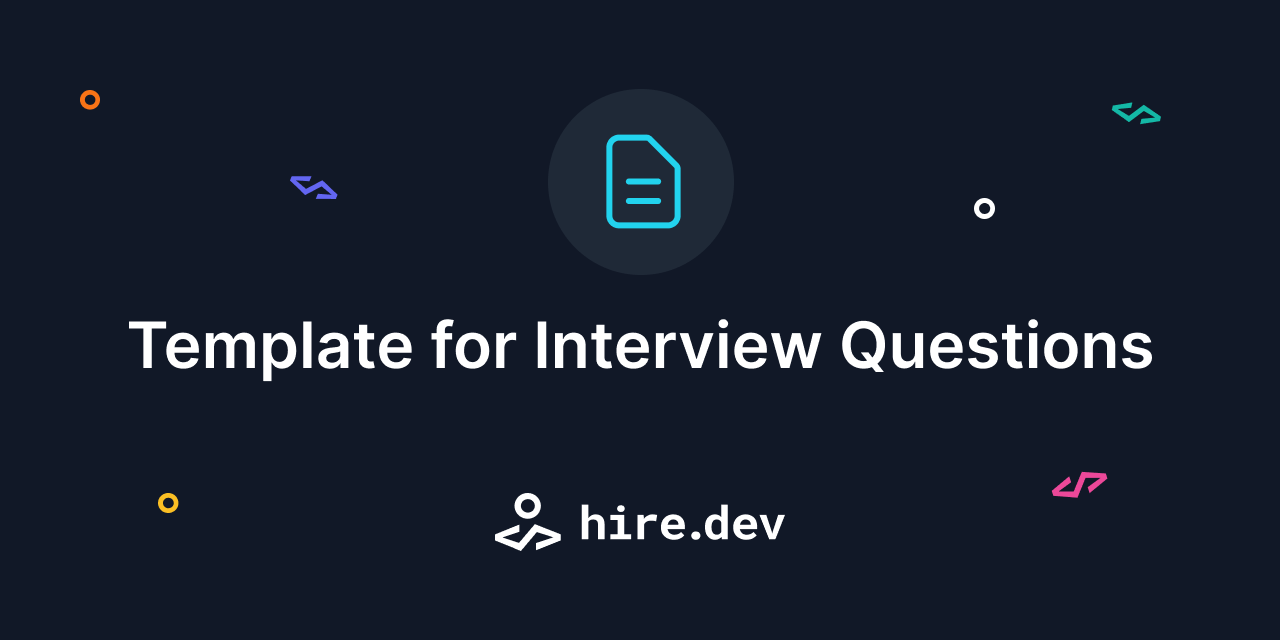
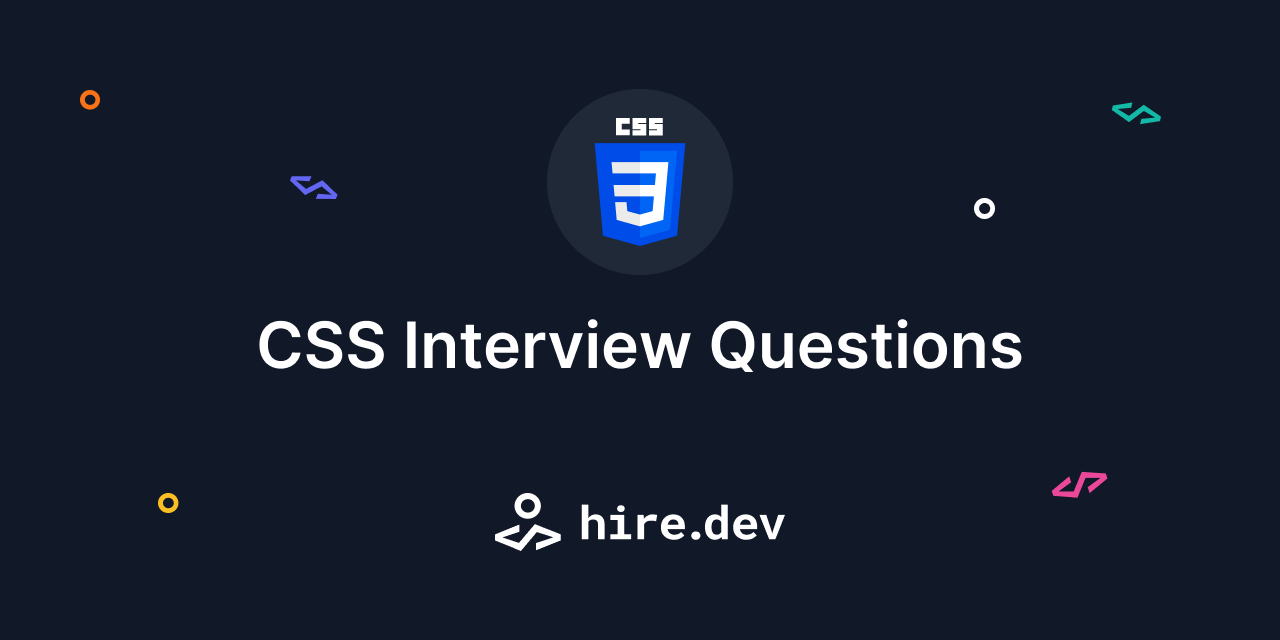
generate readme & img

Changed region(s): [[0.0938, 0.5, 0.9062, 0.5938], [0.4375, 0.1875, 0.5625, 0.375]]

diff --git a/README.md b/README.md
@@ -1,75 +1,23 @@
-![Image header](https://github.com/hiredev-app/interview-questions-template/blob/main/image-header.png?raw=true)
+![Image header](https://github.com/hiredev-app/css-interview-questions/blob/main/image-header.png?raw=true)
 
+## Questions
 
-# [hire.dev] - Interview Questions Template
+<details><summary>The four aspects that make up the box model are:</summary><p></p><p>&nbsp;&nbsp;&nbsp;&nbsp;&nbsp;☒ Padding</p><p>&nbsp;&nbsp;&nbsp;&nbsp;&nbsp;☐ Typography</p><p>&nbsp;&nbsp;&nbsp;&nbsp;&nbsp;☒ Margin</p><p>&nbsp;&nbsp;&nbsp;&nbsp;&nbsp;☒ Border</p><p>&nbsp;&nbsp;&nbsp;&nbsp;&nbsp;☒ Content</p><p>&nbsp;&nbsp;&nbsp;&nbsp;&nbsp;☐ Color</p><p></p></details>
 
-This is a template repository you can use to create your own questions
-set of questions compatible with hire.dev platform.
+<details><summary>Select the correct pairs of text formatting and corresponding CSS properties:</summary><p></p><p>&nbsp;&nbsp;&nbsp;&nbsp;&nbsp;☐ Italic - font-weight: bold;</p><p>&nbsp;&nbsp;&nbsp;&nbsp;&nbsp;☒ Underline - text-decoration: underline;</p><p>&nbsp;&nbsp;&nbsp;&nbsp;&nbsp;☒ Bold - font-weight: bold;</p><p>&nbsp;&nbsp;&nbsp;&nbsp;&nbsp;☒ Italic - font-style: italic;</p><p></p></details>
 
-### What to do?
+<details><summary>Select legal CSS color values:</summary><p></p><p>&nbsp;&nbsp;&nbsp;&nbsp;&nbsp;☒ #00ff00</p><p>&nbsp;&nbsp;&nbsp;&nbsp;&nbsp;☒ hsla(120, 100%, 50%, 0.3)</p><p>&nbsp;&nbsp;&nbsp;&nbsp;&nbsp;☐ 00ff00</p><p>&nbsp;&nbsp;&nbsp;&nbsp;&nbsp;☒ rgba(0, 255, 0, 0.3)</p><p></p></details>
 
-Simply clone this template, modify questions.yaml and make sure it's valid against the schema.
+<details><summary>Select legal CSS color values:</summary><p></p><p>&nbsp;&nbsp;&nbsp;&nbsp;&nbsp;☒ blue</p><p>&nbsp;&nbsp;&nbsp;&nbsp;&nbsp;☒ hsl(120, 100%, 50%)</p><p>&nbsp;&nbsp;&nbsp;&nbsp;&nbsp;☐ cmyk(1, 0, 1, 0)</p><p>&nbsp;&nbsp;&nbsp;&nbsp;&nbsp;☒ rgb(0, 255, 0)</p><p></p></details>
 
-- Github action will make sure the README.md is regenerated, so that your questions are open source in a nice format
-- In case you use hire.dev, please specify this repository in Questions section of your organisation and import the repo.
+<details><summary>Consider following CSS and HTML. How big will the vertical space between the paragraphs be?</summary><p></p><p>&nbsp;&nbsp;&nbsp;&nbsp;&nbsp;◯ 56px</p><p>&nbsp;&nbsp;&nbsp;&nbsp;&nbsp;◯ 24px</p><p>&nbsp;&nbsp;&nbsp;&nbsp;&nbsp;◉ 32px</p><p>&nbsp;&nbsp;&nbsp;&nbsp;&nbsp;◯ 44px</p><p></p></details>
 
-## Motivation
+<details><summary>Consider following CSS and HTML. How big will the vertical space between the paragraphs be?</summary><p></p><p>&nbsp;&nbsp;&nbsp;&nbsp;&nbsp;◯ 56px</p><p>&nbsp;&nbsp;&nbsp;&nbsp;&nbsp;◯ 24px</p><p>&nbsp;&nbsp;&nbsp;&nbsp;&nbsp;◉ 32px</p><p>&nbsp;&nbsp;&nbsp;&nbsp;&nbsp;◯ 44px</p><p></p></details>
 
-At hire.dev, we want to make it possible for a teams to manage their set of interview questions on 
-GitHub in form of a simple YAML file.
+<details><summary>Consider following CSS and HTML. Will the child and parent margins collapse?</summary><p></p><p>&nbsp;&nbsp;&nbsp;&nbsp;&nbsp;◯ No</p><p>&nbsp;&nbsp;&nbsp;&nbsp;&nbsp;◉ Yes</p><p></p></details>
 
-1. We want team members to actively collaborate on a set of questions that are being asked during the interview process.
-2. We believe the questions are more relevant when being built continuously and naturally while building stuff instead of when they are prepared just for the sake of interview process. 
-3. Possibility to store them in YAML on GitHub gives people an opportunity to collaborate like on any other project. Ask questions, do pull-request reviews, create issues.
-4. The setup of this repo allows for this questions to be either just publicly available on GitHub, or be used as part of hire.dev platform.
+<details><summary>Consider following CSS and HTML. How big will the horizontal space between the paragraphs be?</summary><p></p><p>&nbsp;&nbsp;&nbsp;&nbsp;&nbsp;◉ 56px</p><p>&nbsp;&nbsp;&nbsp;&nbsp;&nbsp;◯ 24px</p><p>&nbsp;&nbsp;&nbsp;&nbsp;&nbsp;◯ 32px</p><p>&nbsp;&nbsp;&nbsp;&nbsp;&nbsp;◯ 44px</p><p></p></details>
 
-## Schema
+<details><summary>Select correct scenarios to form a new stacking context:</summary><p></p><p>&nbsp;&nbsp;&nbsp;&nbsp;&nbsp;☐ <body> element of the document.</p><p>&nbsp;&nbsp;&nbsp;&nbsp;&nbsp;☐ Element with a transparent background-color, for example background-color:rgba(255, 0, 0, 0).</p><p>&nbsp;&nbsp;&nbsp;&nbsp;&nbsp;☒ Element with a opacity value less than 1.</p><p>&nbsp;&nbsp;&nbsp;&nbsp;&nbsp;☒ Element with a isolation value isolate.</p><p>&nbsp;&nbsp;&nbsp;&nbsp;&nbsp;☒ Element with a position value absolute or relative and z-index value other than auto.</p><p></p></details>
 
-```yaml
-questions:
-- title: {question_name}
-  type: {full_text,single_choice,multi_choice}
-  options: # available just for single_choice,multi_choice questions
-  - value: {answer_no_1_text}
-    correct: true # only 1 correct answer possible for single_choice questions
-  - value: {answer_no_2_text}
-  hint: # optional hint 
-  body: |
-    Body of the question in Markdown to briefly describe the question more in detail
-    ~~~python
-    # You can even provide code snippets
-    ~~~
-```
-
-## How does hire.dev question repositories work?
-
-```
-                                                                                                      
-                                                                                                      
-                                            +--------------------------------------+                  
-+-------------------+                       |                                      |                  
-|Questions repository -------------------------------+    hire.dev                 |                  
-|no.1               |                       |        |                             |                  
-|                   |  hire.dev pulls       |  +-----|-----+                       |                  
-|+ questions.yaml   |  data from the repo   |  |           |                       |                  
-+-------------------+                       |  |           |                       |                  
-                                            |  |           |                       |                  
-                                            |  | Company's |                       |                  
-                                            |  | question  |    Job Pipeline       |                  
-+-------------------+                       |  | database  |    of a specific      |                  
-|Questions repository--------------------------|           |    interview          |                  
-|no. 2              |                       |  |           |    +-----------------+|                  
-|                   |                       |  +-----|-----+    | Introduction    ||                  
-|+ questions.yaml   |                       |        |          +-----------------+|                  
-+-------------------+                       |        |          +-----------------+|                  
-                                            |        +----------- Questions block ||                  
-                                            |  A subset of      +-----------------+|                  
-                                            |  questions        +-----------------+|                  
-                                            |  is chosen for    | Online meeting  ||                  
-                                            |  each individual  +-----------------+|                  
-                                            |  job type         +-----------------+|                  
-                                            |                   | Final block     ||                  
-                                            |                   +-----------------+|                  
-                                            +--------------------------------------+                  
-                                                                                           
-```
+<details><summary>Select correct scenarios to form a new stacking context:</summary><p></p><p>&nbsp;&nbsp;&nbsp;&nbsp;&nbsp;☒ Root element of the document (<html>).</p><p>&nbsp;&nbsp;&nbsp;&nbsp;&nbsp;☒ Element that is a child of a flex container, with z-index value other than auto.</p><p>&nbsp;&nbsp;&nbsp;&nbsp;&nbsp;☒ Element that is a child of a grid container, with z-index value other than auto.</p><p>&nbsp;&nbsp;&nbsp;&nbsp;&nbsp;☐ Element that is a child of a block container.</p><p>&nbsp;&nbsp;&nbsp;&nbsp;&nbsp;☒ Element with a position value fixed or sticky.</p><p></p></details>
